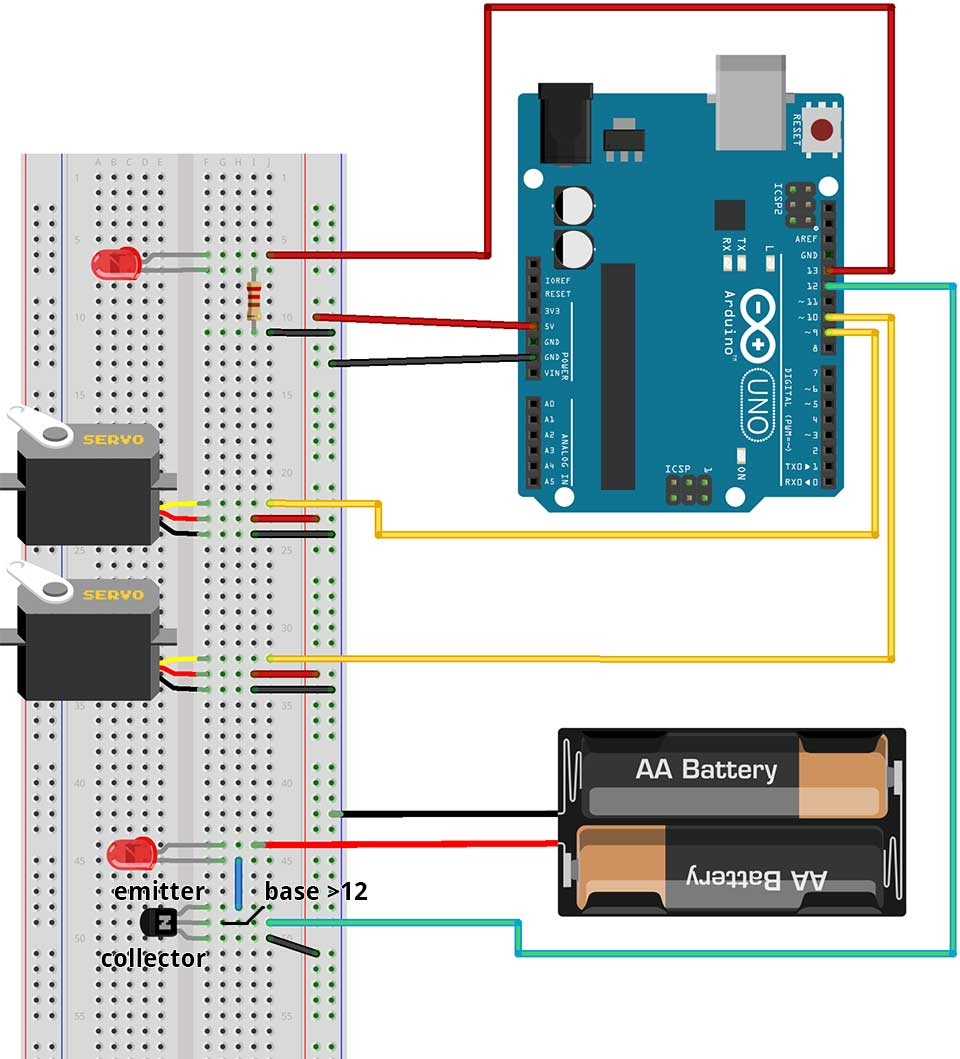
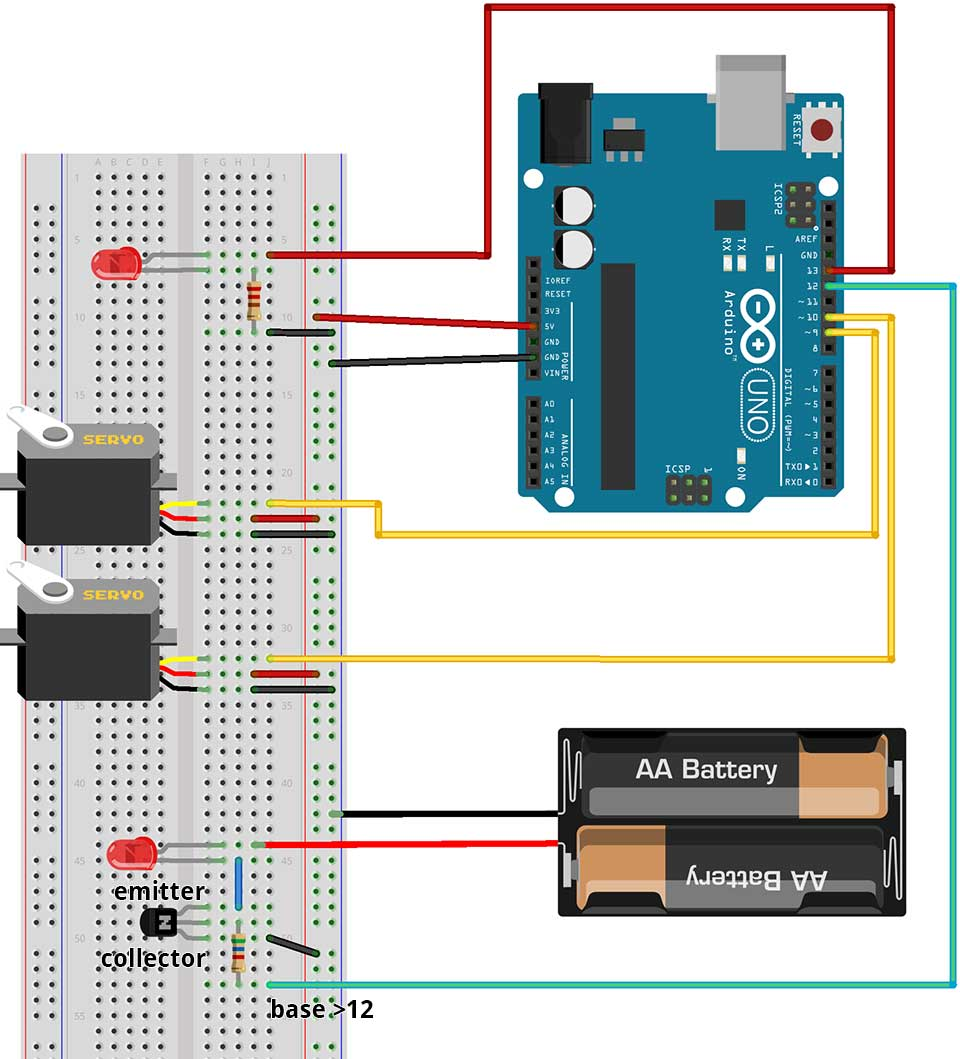
basic leap motion support, updated help

Changed region(s): [[0.2188, 0.8102, 1.0, 0.966]]

diff --git a/public/help/index.html b/public/help/index.html
@@ -92,7 +92,9 @@
                 <ul>
                     <li>1 arduino uno board</li>
                     <li>1 bread board with power line (or not)</li>
-                    <li>few leds and 220 ohm resistor</li>
+                    <li>1 led</li>
+                    <li>220 ohm resistor</li>
+                    <li>560 ohm resistor</li>
                     <li>2 9g servo</li>
                     <li>1 Laser Diode - 5mW whatever color</li>
                     <li>1 transistor (BC547)</li>
@@ -254,20 +256,23 @@
                     both type have 3 pins one collector, one base, and one emitter, in the NPN ones it allow the current to flow from the collector to the emitter IF the current in the base is higher that the emitter's one allowing the current to flow.
                 </p>
                 <p>
-                   by applying current to the base with our arduino, we will allow the current of the external source to flow. 
+                   by applying current to the base with our arduino, we will allow the current of the external source to flow.
+                </p>
+                <p>
+                    <span class="label label-info">Note</span> transistor's BC547 base is not meant to receive huge amount of current, so we will put a resistor between the base and the arduino's pin, i choose a common 560 ohm one, cause i had it laying around !
                 </p>
                 <p>
                     let's create a second circuit to our breadboard, from the external power source to the laser to close it in the ground.
                 </p>
                 <p>
-
-                    
-
                     <ul>
                         <li>put the laser plus and minus on your board</li>
                         <li>plug you transistor on the board the flat side facing the breadboard powerline, left of the laser</li>
                         <li>link the minus of the led to the emmiter</li>
-                        <li>link the base to your arduiono's digital pin 12 </li>
+                        <li>
+                            link the base to the 560 ohms resistor
+                        </li>
+                        <li>link the other side of the 560 ohms resistor to pin 12 </li>
                         <li>link the collector of the transistor to the powerline's ground</li>
                         <li>link the plus of the external source to the plus of your laser</li>
                         <li>link the minus of the external source to the powerline's ground</li>
@@ -286,19 +291,49 @@
                     </div>
                 </div>
                 <p>
-
+                    there we are, we have a fully functional cat mesmerizer !
                 </p>
 
             </div>
             <div class="span12">
                 <h1>Step Four, Coding action</h1>
+                tl;dr : 
+                <ol>
+                    <li>clone the project</li>
+                    <li>cd /projetRepertory (if not yet there)</li>
+                    <li><code>node server</code> in a terminal</li>
+                    <li><code>node cat</code> in an other one</li>
+                    <li>open your browser to localhost:4000</li>
+                </ol>
                 <p>
-                    explain furnished code
-                        <ul>
-                            <li>cat code</li>
-                            <li>server code</li>
-                            <li>possible extentions</li>
-                        </ul>
+                    Since i know you all are code oriented geeks, rather than write a lot about simple Js patterns that you may already know about, 
+                    I decided that i will provide some heavily commented code examples, and leave you tweak it at your will. <br>
+                    but i won't leave you in the wild with no explanation either so here is a basic breakdown of the code furnished.
+
+                    <ul>
+                        <li>
+                            config.js : configuration file, alloy you to setup host adress and port, log generation and launch the tcp server </li>
+                        <li>
+                            server.js : code for the server, i separated the turret and the server code, to allow for a remote deployement of the service.
+                        </li>
+                        <li>
+                            cat.js : code for the turret
+                        </li>
+                        <li>
+                            lib/tcpPortServer : you can enable it in the config file, it is use for devices that are not compatible with websockets (i used it for a processing thing)
+                        </li>
+                        <li>
+                            lib/briquet.js : briquet (lighter in french) is a small literal object i use to configure led actions
+                        </li>
+                        <li>
+                            public/scripts/control.js : simple X/Y controller that send that to the io server. 
+                        </li>
+                    </ul>
+                </p>
+                <p>
+                    this code is simple, but yet more complex that it could have been, you could for example ditch the whole server and tcp socket stuff if you code the server and the tower in the same file no need for socket things. briquet.js is overkill, and i'm sure you can see thing that could be trimmed down.<br>
+                    I just felt that with these tools in hand, you could do way more than this simple example. no go, play, inspire me by showing me great stuff 
+                    <h1>START HACKING</h1>
                 </p>
                 <!-- <div class="row">
                     <div class="span8">
@@ -315,7 +350,10 @@
 
             <div class="span12">
                 <h1 id="additional">additional infos</h1>
+                <h2>thanks</h2>
+                <p>i would like to thanks @rwaldron, @vodootikigod, for making this all possible, @olizilla that showed us that we can actually do thing in europe, too, and to all of you nodebots lover, for all these exiting project and idea that ignited my brain !!!</p>
                 <h2>Resources</h2>
+                arrrrrrgggggh not enough time sorry :)
                 <h2 id="pwm">PWM</h2>
                 <p>
                     PWM stand for Pulse Width Modulation, it is a trick to get analog like result with your digital pins, do do so it emit a square wave by altering low and high current each cycle is divided in 256 parts, here you are my precious 8bits !!! <br>

diff --git a/public/scripts/leapControl.js b/public/scripts/leapControl.js
@@ -14,29 +14,31 @@ Leap.loop(controllerOptions, function(frame) {
 
     i++;
     // track only 40frame/s
-    if (i%6 === 0) {
+    if (i%3 === 0) {
+        console.log('frame');
         if (frame.hands.length > 0){
         
-            posX = scale(frame.hands[0].palmPosition[0],150);
-            posY = scale(frame.hands[0].palmPosition[1],150);
-            console.log(frame.hands[0].palmPosition[1]);
-            if (posX >= 1) {
-                posX = 1;
-            }
-            else if (posX <= 0) {
-                posX = 0;
-            }
-            if (posY >= 1) {
-                posY = 1;
-            }
-            else if (posY <= 0) {
-                posY = 0;
-            }
+            posX = scaleX(frame.hands[0].palmPosition[0],300);
+            posY = scaleY(frame.hands[0].palmPosition[1],300);
+            console.log (posX + '/' + posY);
+            //console.log(frame.hands[0].palmPosition[1]);
+            // if (posX >= 1) {
+            //     posX = 1;
+            // }
+            // else if (posX <= 0) {
+            //     posX = 0;
+            // }
+            // if (posY >= 1) {
+            //     posY = 1;
+            // }
+            // else if (posY <= 0) {
+            //     posY = 0;
+            // }
 
-            socket.emit("send", {
-                sliderX: posX,
-                sliderY: posY
-        });
+            // socket.emit("send", {
+            //     sliderX: posX,
+            //     sliderY: posY
+            // });
     }
         i=0;
         //console.log ("cycle")
@@ -65,10 +67,12 @@ Leap.loop(controllerOptions, function(frame) {
 
     // convert position info in a 0 to 1 int so we can use a 
     // normalized value with differents actuators
-    function scale(val, valMax) {
+    function scaleX(val, valMax) {
         return (val + valMax) / valMax * 2;
     }
-
+    function scaleY(val, valMax) {
+        return val /valMax ;
+    }
     
         
 });

diff --git a/config.js b/config.js
@@ -2,12 +2,14 @@ var config = {};
 
 config.servInfo = {};
 config.servInfo.url = 'http://localhost';
-config.servInfo.port = process.env.PORT || 4000,
+config.servInfo.port = process.env.PORT || 4000;
+config.servInfo.tcpServer = false;
+config.servInfo.tcpServerPort = 4600;
 	
 config.cat = {};
 config.cat.eventLog = true;
 
 config.tcpPortServer ={};
-config.tcpPortServer.port = 4666;
+config.tcpPortServer.launch = false;
 
 module.exports = config;

diff --git a/server.js b/server.js
@@ -18,8 +18,11 @@ var express = require("express"),
     ));
 var count = 0;
 // used for unity launch a tcp server at port the configured port
-var tcpPortServer = require('./lib/tcpPortServer');
-tcpPortServer(tcpPort,servInfo);
+if (config.tcpPortServer.launch ===true){
+    var tcpPortServer = require('./lib/tcpPortServer');
+    tcpPortServer(tcpPort,servInfo);
+    console.log("tcpServer On");
+}
 
 // reduced log )
 io.set('log level', 1);
